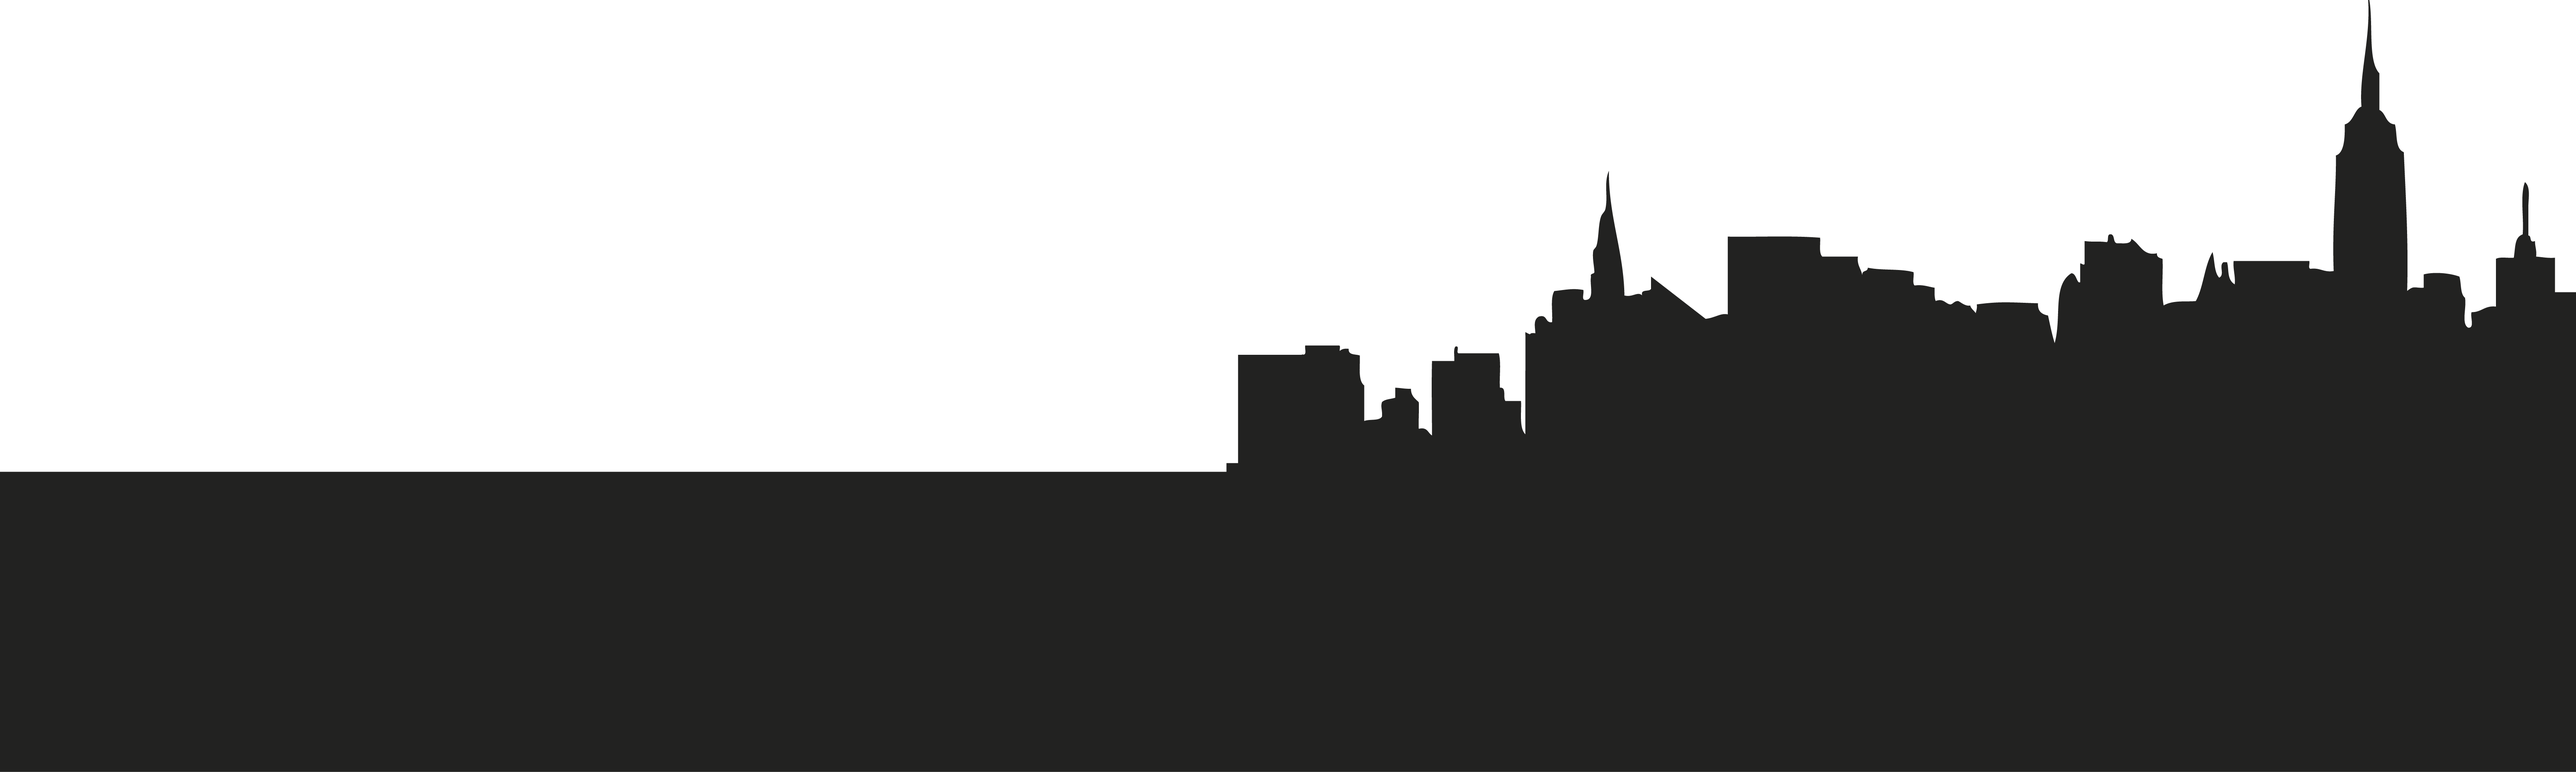
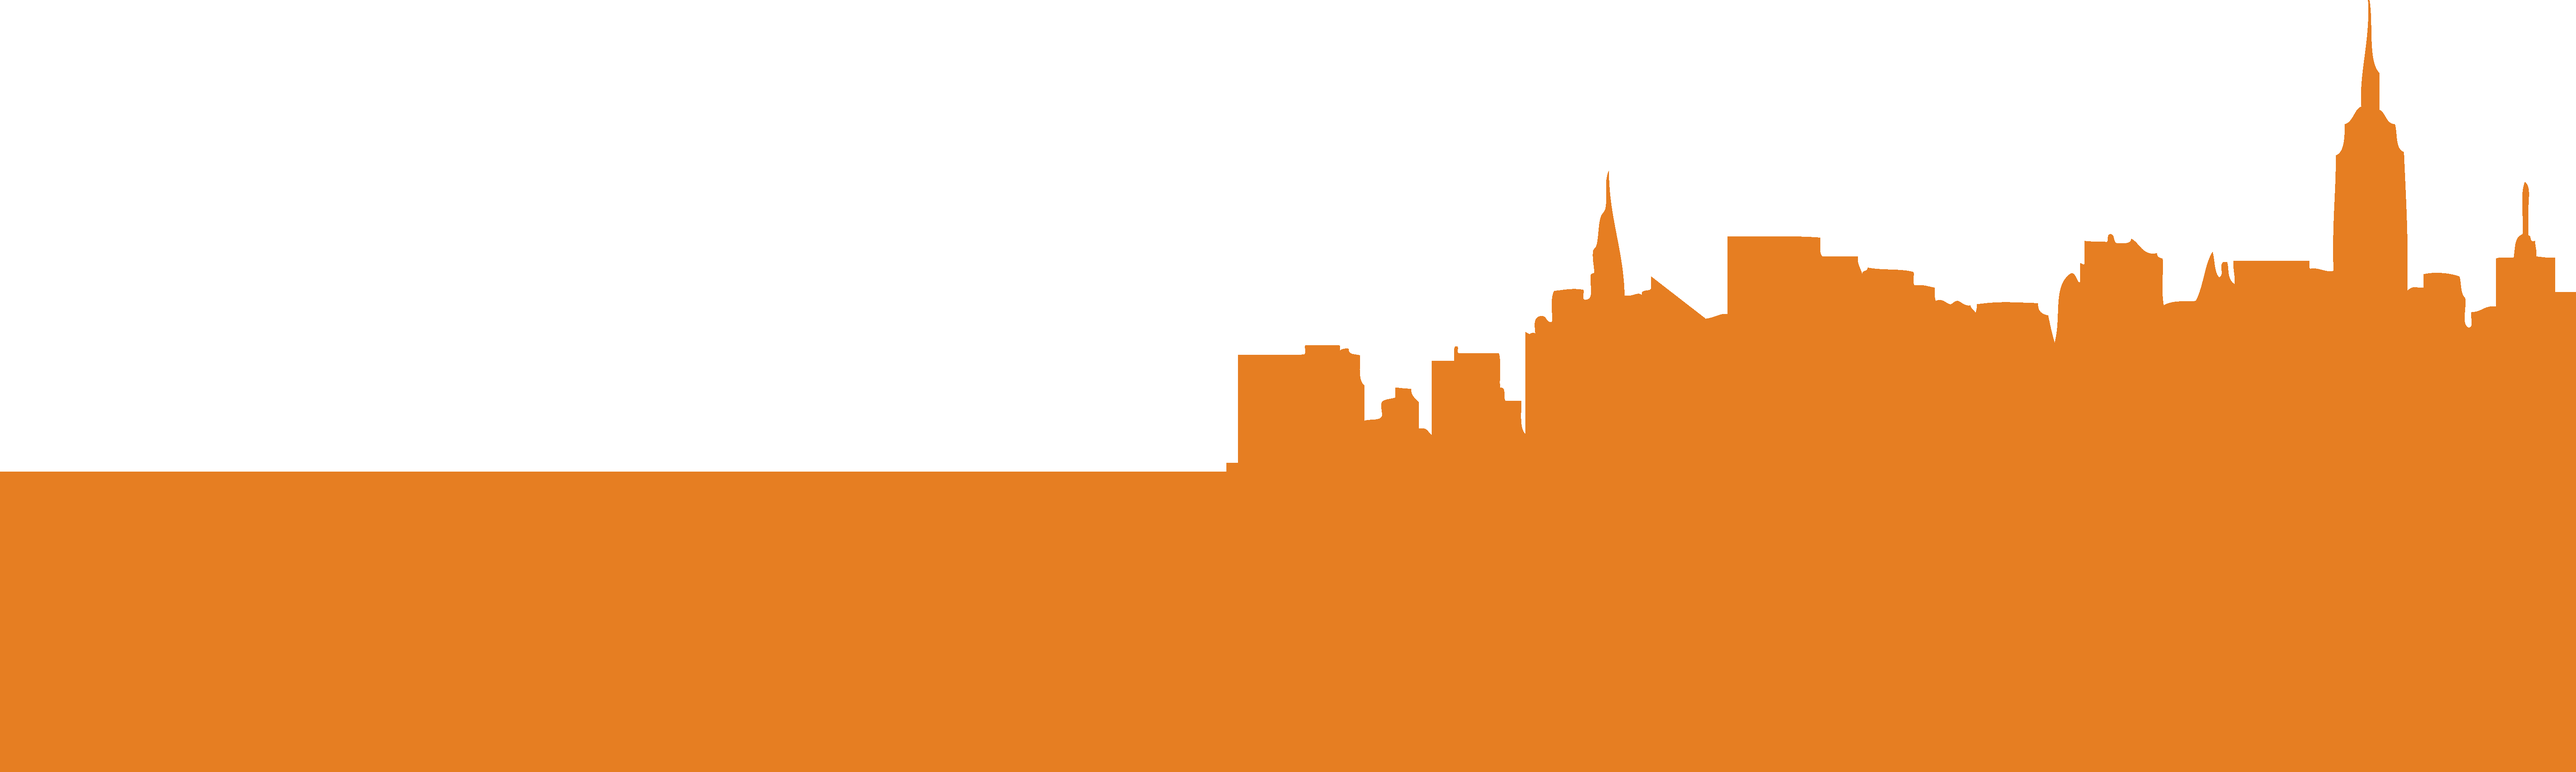
General restyling & better login messages

diff --git a/src/main/webapp/css/easyrent.css b/src/main/webapp/css/easyrent.css
@@ -1,5 +1,5 @@
 .jumbotron {
-    background: #34495e url("/img/cityscape.png") no-repeat right top;
+    background: #f39c12 url("/img/cityscape.png") no-repeat right top;
     -webkit-background-size: cover;
     -moz-background-size: cover;
     -o-background-size: cover;
@@ -25,12 +25,12 @@
 }
 
 #signup-nav-btn a:hover {
-    background-color: #2c3e50 !important;
+    background-color: #e67e22 !important;
     color: #fff !important;
 }
 
 #logout-nav-btn a:hover {
-    background-color: #7f8c8d !important;
+    background-color: #95a5a6 !important;
     color: #000 !important;
 }
 
@@ -39,5 +39,5 @@
 }
 
 .bg-cloud {
-    background-color: #bdc3c7;
+    background-color: #95a5a6;
 }

diff --git a/src/main/java/es/uji/daal/easyrent/utils/CustomAuthenticationProvider.java b/src/main/java/es/uji/daal/easyrent/utils/CustomAuthenticationProvider.java
@@ -26,14 +26,22 @@ public class CustomAuthenticationProvider implements AuthenticationProvider {
         String password = (String) authentication.getCredentials();
 
         if (!userRepository.existsByUsername(username)) {
-            throw new BadCredentialsException("Wrong username");
+            throw new BadCredentialsException("wrong-username");
         }
 
         if (!userRepository.authenticate(username, password)) {
-            throw new BadCredentialsException("Wrong password");
+            throw new BadCredentialsException("wrong-password");
         }
 
         User user = userRepository.findByUsername(username);
+
+        if (!user.isActive() && user.getDeactivatedSince() == null) {
+            throw new BadCredentialsException("unconfirmed-account");
+        }
+
+        if (!user.isActive() && user.getDeactivatedSince() != null) {
+            throw new BadCredentialsException("banned-account");
+        }
 
         ArrayList<GrantedAuthority> authorities = new ArrayList<>();
         authorities.add(new GrantedAuthorityImpl(user.getRole().toString()));

diff --git a/src/main/java/es/uji/daal/easyrent/model/User.java b/src/main/java/es/uji/daal/easyrent/model/User.java
@@ -165,7 +165,7 @@ public class User extends DomainModel {
         this.signUpDate = signUpDate;
     }
 
-    public boolean getActive() {
+    public boolean isActive() {
         return active;
     }
 
